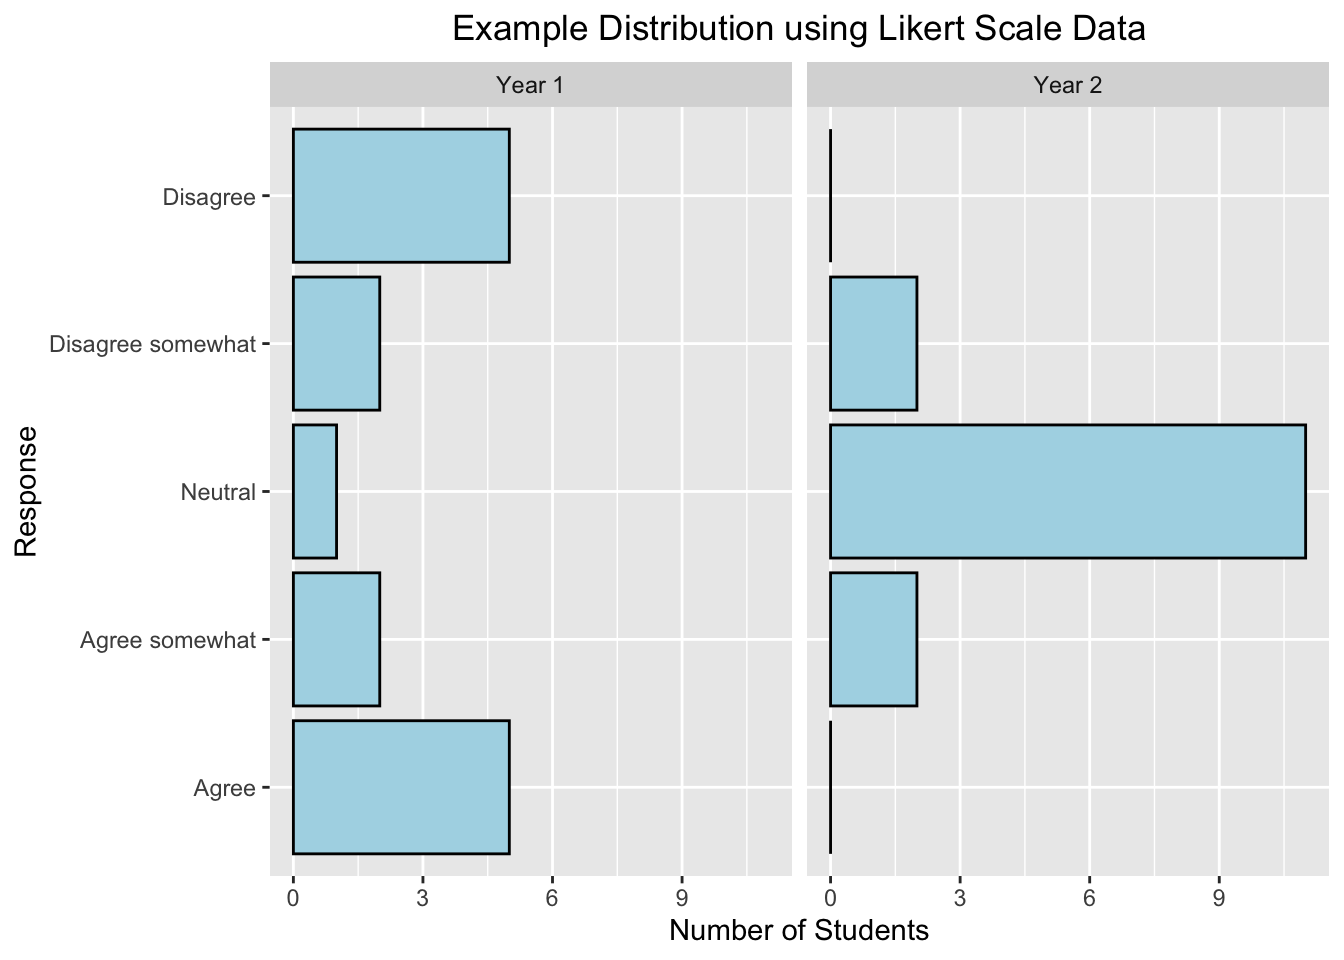
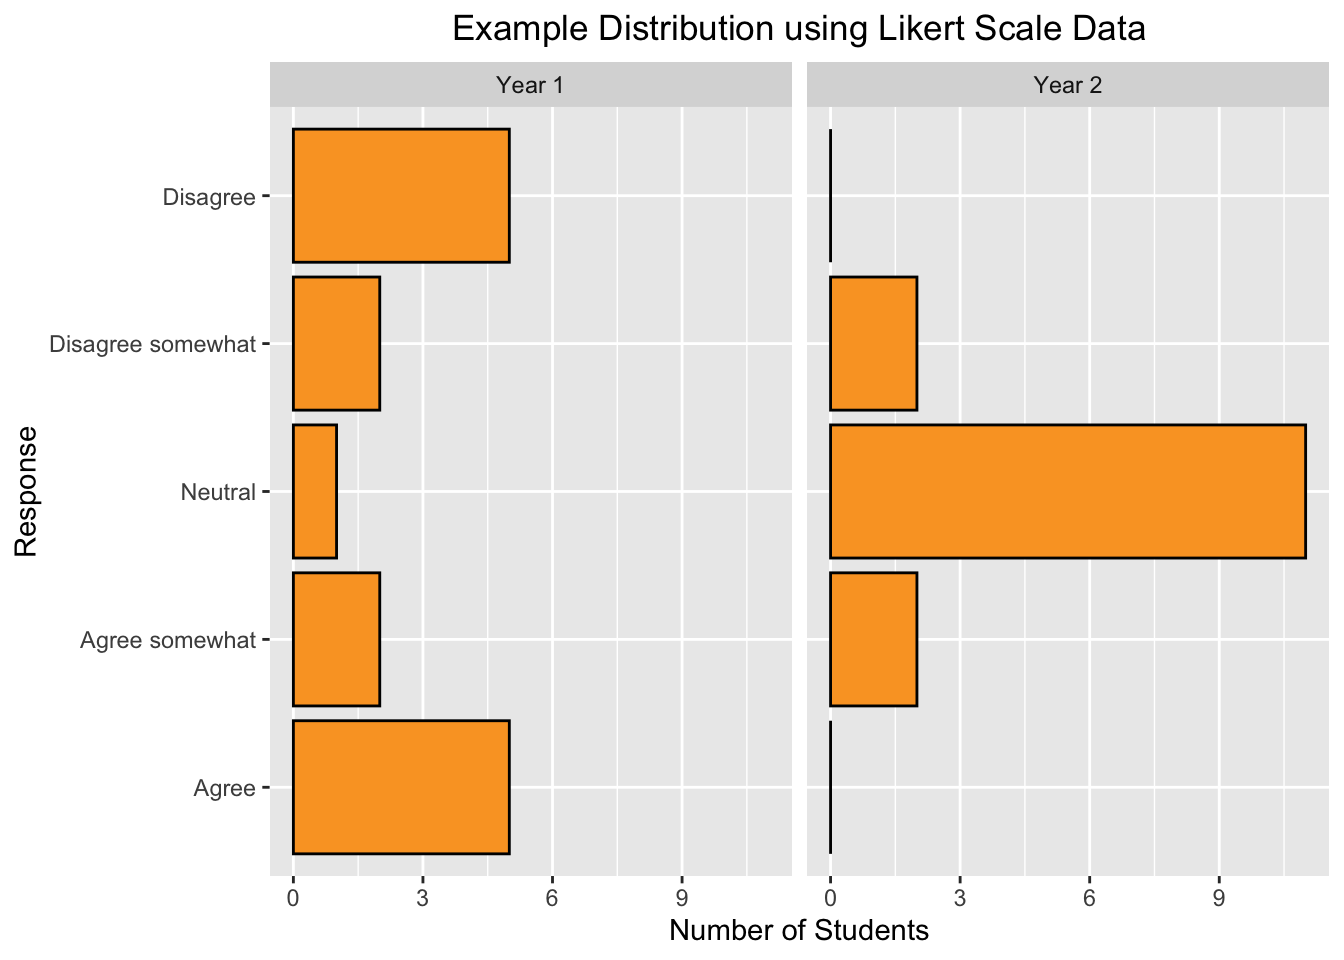
trying new colors for fellowship poster

Changed region(s): [[0.5938, 0.2812, 0.9688, 0.75], [0.2188, 0.125, 0.375, 0.9062]]

diff --git a/Fellowship_Poster/Fellowship_Poster.html b/Fellowship_Poster/Fellowship_Poster.html
@@ -24,6 +24,8 @@ Google fonts api stuff
 <title>Visualizing Student Evaluation Data</title>
 
 
+<script src="Fellowship_Poster_files/kePrint-0.0.1/kePrint.js"></script>
+<link href="Fellowship_Poster_files/lightable-0.0.1/lightable.css" rel="stylesheet" />
 
 
 
@@ -52,14 +54,14 @@ padding: 0cm;
 width: 48in;
 height: calc(36in * 0.15);
 overflow: hidden;
-background-color: #0b4545;
-border: 0cm solid #0b4545;
+background-color: #00bbd6;
+border: 0.15cm solid #0b4545;
 }
 .logo_left {
 float: left;
 width: 10%;
 height: 100%;
-background-color: #0b4545;
+background-color: #00bbd6;
 display: flex;
 align-items: center;
 justify-content: center;
@@ -68,7 +70,7 @@ justify-content: center;
 float: right;
 width: 10%;
 height: 100%;
-background-color: #0b4545;
+background-color: #00bbd6;
 display: flex;
 align-items: center;
 justify-content: center;
@@ -89,24 +91,24 @@ font-family: Georgia, serif;;
 }
 /* unvisited link */
 a:link {
-color: #cc0000;
+color: #faa32b;
 }
 .mybreak {
   break-before: column;
 }
 /* visited link */
 a:visited {
-color: #cc0000;
+color: #faa32b;
 }
 
 /* mouse over link */
 a:hover {
-color: #cc0000;
+color: #faa32b;
 }
 
 /* selected link */
 a:active {
-color: #cc0000;
+color: #faa32b;
 }
 .poster_body {
 -webkit-column-count: 3; /* Chrome, Safari, Opera */
@@ -121,12 +123,12 @@ column-rule-width: 1mm;
 -webkit-column-rule-style: dashed;
 -moz-column-rule-style: dashed;
 column-rule-style: dashed;
--webkit-column-rule-color: #0b4545;
--moz-column-rule-color: #0b4545;
-column-rule-color: #0b4545;
-column-gap: 0cm;
-padding-left: calc(0cm / 2);
-padding-right: calc(0cm / 2);
+-webkit-column-rule-color: #237194;
+-moz-column-rule-color: #237194;
+column-rule-color: #237194;
+column-gap: 0.15cm;
+padding-left: calc(0.15cm / 2);
+padding-right: calc(0.15cm / 2);
 height: 100%;
 color: #000000
 background-color: #ffffff;
@@ -138,7 +140,7 @@ border: 0;
 font-weight: normal;
 }
 .poster_body_wrap{
-width: calc(48in + 0cm + 0cm);
+width: calc(48in + 0.15cm + 0.15cm);
 height: calc(36in * 0.83);
 padding-top: calc(36in * 0.005);
 padding-bottom: calc(36in * 0.01);
@@ -173,8 +175,8 @@ margin-bottom: 0;
 text-align: center;
 color: #FFFFFF;
 font-size: 65pt;
-border: 2mm solid #0b4545;
-background-color: #0b4545;
+border: 2mm solid #237194;
+background-color: #00bbd6;
 border-radius: 4mm 0mm;
 margin-top: 2mm;
 margin-bottom: 2mm;
@@ -227,7 +229,7 @@ code {
 font-size: 1em;
 font-family: monospace;
 background-color: #00808024;
-color: #0b4545;
+color: #00bbd6;
 padding: 1.2mm;
 border-radius: 2mm;
 }
@@ -331,14 +333,63 @@ font-size: 20pt;
 <ul>
 <li>Fitted ordinal logistic regression model to predict and visualize probability of student responses based on student class year and sex</li>
 </ul>
-<p><img src="Rplot_Probability.png" width="850px" style="display: block; margin: auto;" /></p>
+<table class="table" style="font-size: 27px; width: auto !important; margin-left: auto; margin-right: auto;">
+<thead>
+<tr>
+<th style="text-align:left;">
+</th>
+<th style="text-align:right;">
+Male
+</th>
+<th style="text-align:right;">
+Female
+</th>
+</tr>
+</thead>
+<tbody>
+<tr>
+<td style="text-align:left;">
+First_Year
+</td>
+<td style="text-align:right;">
+125
+</td>
+<td style="text-align:right;">
+65
+</td>
+</tr>
+<tr>
+<td style="text-align:left;">
+Sophomore
+</td>
+<td style="text-align:right;">
+40
+</td>
+<td style="text-align:right;">
+65
+</td>
+</tr>
+<tr>
+<td style="text-align:left;">
+Upperclassmen
+</td>
+<td style="text-align:right;">
+10
+</td>
+<td style="text-align:right;">
+15
+</td>
+</tr>
+</tbody>
+</table>
+<p><img src="Rplot_Probability.png" width="1100px" style="display: block; margin: auto;" /></p>
 </div>
 <div id="additional-visualization" class="section level1">
 <h1>Additional Visualization</h1>
 <ul>
 <li>Static visualization of new question added to student evaluations</li>
 </ul>
-<p><img src="Fellowship_Poster_files/figure-html/unnamed-chunk-5-1.png" width="725px" style="display: block; margin: auto;" /></p>
+<p><img src="Fellowship_Poster_files/figure-html/unnamed-chunk-6-1.png" width="775px" style="display: block; margin: auto;" /></p>
 </div>
 <div id="references" class="section level1">
 <h1>References</h1>
